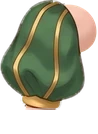
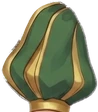
feat(rig): two-sided long cape and back-view arms
- Long cape: new front and back paintings. In front view the lining seen
  through the opening (with its inner hem) draws behind the body, and the
  outer drape falls in front of the body's sides.
- Back view: new arms painted from behind (backs of the hands), split into
  sleeve and forearm (tools/pack3.py).

Claude-Session: https://claude.ai/code/session_0178JCr5DuUpPvDwy7b6AxGM

diff --git a/sw.js b/sw.js
@@ -40,17 +40,17 @@ const PRECACHE_URLS = [
   // Phase 4G painted rig parts (needed offline for the player character). Other
   // painted art is cached on first view by the stale-while-revalidate handler.
   "./assets/art/avatar/back/bag.webp",
-  "./assets/art/avatar/back/cape.webp",
+  "./assets/art/avatar/back/cape.webp?v=2",
   "./assets/art/avatar/back/capelet.webp",
-  "./assets/art/avatar/back/forearm_left.webp",
-  "./assets/art/avatar/back/forearm_right.webp",
+  "./assets/art/avatar/back/forearm_left.webp?v=2",
+  "./assets/art/avatar/back/forearm_right.webp?v=2",
   "./assets/art/avatar/back/head.webp",
   "./assets/art/avatar/back/leg_left.webp",
   "./assets/art/avatar/back/leg_right.webp",
   "./assets/art/avatar/back/neck.webp",
   "./assets/art/avatar/back/skirt.webp",
-  "./assets/art/avatar/back/sleeve_left.webp?v=2",
-  "./assets/art/avatar/back/sleeve_right.webp?v=2",
+  "./assets/art/avatar/back/sleeve_left.webp?v=3",
+  "./assets/art/avatar/back/sleeve_right.webp?v=3",
   "./assets/art/avatar/back/torso.webp",
   "./assets/art/avatar/boots/back_left.webp",
   "./assets/art/avatar/boots/back_right.webp",
@@ -65,7 +65,8 @@ const PRECACHE_URLS = [
   "./assets/art/avatar/expressions/head_neutral.webp?v=2",
   "./assets/art/avatar/expressions/head_surprised.webp?v=2",
   "./assets/art/avatar/front/bag.webp",
-  "./assets/art/avatar/front/cape.webp?v=2",
+  "./assets/art/avatar/front/cape.webp?v=3",
+  "./assets/art/avatar/front/cape_inner.webp?v=1",
   "./assets/art/avatar/front/capelet.webp?v=2",
   "./assets/art/avatar/front/capelet_inner.webp?v=2",
   "./assets/art/avatar/front/forearm_left.webp",

diff --git a/tools/pack3.py b/tools/pack3.py
@@ -1,0 +1,102 @@
+"""Back-view arms and the two-sided long cape -> rig parts.
+
+Run: python3 tools/pack3.py <arms sheet> <cape sheet>
+Writes the part images and prints the rig data (w, h, pivot, end) to paste
+into garden/avatar-rig-data.mjs.
+"""
+import sys, json
+from pathlib import Path
+import numpy as np
+from PIL import Image
+from scipy import ndimage as nd
+sys.path.insert(0, str(Path(__file__).parent))
+from keyer import key, parts
+
+ROOT = Path(__file__).resolve().parent.parent
+AV = ROOT / "assets/art/avatar"
+
+
+def tight(a, pad=2):
+    ys, xs = np.where(a[..., 3] > 12)
+    return a[max(0, ys.min() - pad):ys.max() + 1 + pad, max(0, xs.min() - pad):xs.max() + 1 + pad]
+
+
+def resize(a, s):
+    im = Image.fromarray(a)
+    return np.array(im.resize((max(1, round(im.width * s)), max(1, round(im.height * s))), Image.LANCZOS))
+
+
+def save(a, rel):
+    Image.fromarray(a).save(AV / rel, "WEBP", quality=92, method=6)
+
+
+def gold_mask(a):
+    r, g, b = a[..., 0].astype(float), a[..., 1].astype(float), a[..., 2].astype(float)
+    return (a[..., 3] > 150) & (b < r * 0.62) & (g > r * 0.55) & (r > 110)
+
+
+def centre_x(a, y):
+    xs = np.where(a[y, :, 3] > 128)[0]
+    return float((xs[0] + xs[-1]) / 2) if len(xs) else a.shape[1] / 2
+
+
+out = {}
+# ---------------------------------------------------------------- back arms
+arms = sorted(parts(key(sys.argv[1]), min_area=4000), key=lambda p: p["box"][0])[:2]
+TARGET_SLEEVE_W = 98
+for p, side in zip(arms, ("left", "right")):
+    a = tight(p["img"])
+    h = a.shape[0]
+    rows = np.where(gold_mask(a).sum(1) > a.shape[1] * 0.2)[0]
+    rows = rows[rows < h * 0.6]
+    cuff = rows.max() + 1  # bottom of the gold cuff
+    sl = tight(a[:cuff + 2].copy())
+    s = TARGET_SLEEVE_W / sl.shape[1]
+    tuck = max(6, int(h * 0.02))
+    fa = a[cuff - tuck:].copy()
+    fa = tight(fa)
+    sl, fa = resize(sl, s), resize(fa, s)
+    save(sl, f"back/sleeve_{side}.webp")
+    save(fa, f"back/forearm_{side}.webp")
+    sh, sw = sl.shape[:2]
+    fh, fw = fa.shape[:2]
+    key_ = "L" if side == "left" else "R"
+    out["sleeve" + key_] = {"w": sw, "h": sh, "pivot": [round(centre_x(sl, 6), 1), 7.0],
+                            "end": [round(centre_x(sl, sh - 3), 1), float(sh - 6)]}
+    out["forearm" + key_] = {"w": fw, "h": fh, "pivot": [round(centre_x(fa, 8), 1), float(round(tuck * s) + 2)],
+                             "end": [round(centre_x(fa, fh - 3), 1), float(fh - 6)]}
+
+# ---------------------------------------------------------------- long cape
+cape_sheet = key(sys.argv[2])
+capes = sorted(parts(cape_sheet, min_area=60000), key=lambda p: p["box"][0])
+back_c, front_c = (tight(c["img"]) for c in capes[:2])
+W = 366
+for name, a in (("back", back_c), ("front", front_c)):
+    a = resize(a, W / a.shape[1])
+    if name == "back":
+        save(a, "back/cape.webp")
+        out["back.cape"] = {"w": a.shape[1], "h": a.shape[0], "pivot": [round(centre_x(a, 4), 1), 8.0]}
+        continue
+    # front: split the lining seen through the opening (behind the body) from the outer drape
+    r, g, b = a[..., 0].astype(float), a[..., 1].astype(float), a[..., 2].astype(float)
+    mx = np.maximum(np.maximum(r, g), b) / 255
+    sat = (mx - np.minimum(np.minimum(r, g), b) / 255) / (mx + 1e-6)
+    gold = nd.binary_dilation((r > g * 0.95) & (r > b * 1.25) & (mx > 0.38) & (sat > 0.25), iterations=1)
+    lab, _ = nd.label((a[..., 3] > 120) & ~gold)
+    h, w = a.shape[:2]
+    ids = {lab[int(h * fy), int(w * 0.5)] for fy in (0.45, 0.65, 0.85)} - {0}
+    lining = np.isin(lab, list(ids))
+    outer_cloth = (lab > 0) & ~lining
+    # gold trim belongs to the drape only where it runs along the outer cloth
+    # (the drape's front edges); the hem seen inside the opening is lining
+    near_outer = nd.distance_transform_edt(~outer_cloth) <= 7
+    lining |= gold & (a[..., 3] > 0) & ~near_outer
+    lining = nd.binary_fill_holes(nd.binary_dilation(lining, iterations=1)) & ~(outer_cloth & ~nd.binary_dilation(lining, iterations=1))
+    soft = nd.gaussian_filter(lining.astype(float), 0.7)
+    inner, outer = a.copy().astype(float), a.copy().astype(float)
+    inner[..., 3] *= soft
+    outer[..., 3] *= 1 - soft
+    save(inner.clip(0, 255).astype(np.uint8), "front/cape_inner.webp")
+    save(outer.clip(0, 255).astype(np.uint8), "front/cape.webp")
+    out["front.cape"] = {"w": w, "h": h, "pivot": [round(centre_x(a, 4), 1), 8.0], "lining_px": int(lining.sum())}
+print(json.dumps(out, indent=1))
